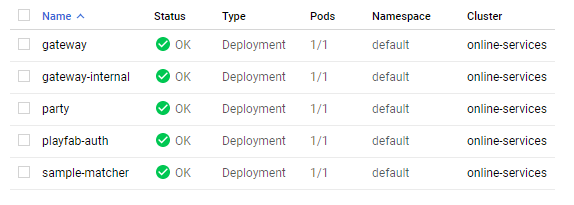
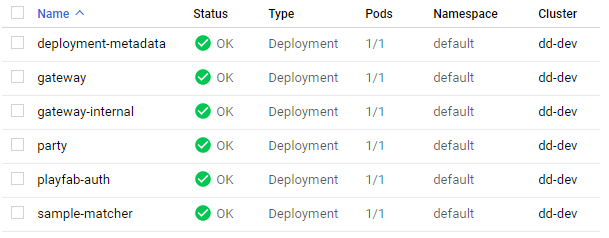
OS-675 Update quickstart docs (#57)
* Add deployment-metadata-related info to docs, update screenshots, spelling/grammar fixes

* Fix link in readme

* Add TODO for secret generation explanation

* Update local.md

Undo "used to" change

* Add in_use tag and description

* Change quickstart to push deployment metadata secret by string literal

* Update overview.md

Change in_use tag description

diff --git a/docs/content/get-started/quickstart-4.md b/docs/content/get-started/quickstart-4.md
@@ -10,7 +10,7 @@ This will give you a `gcloud` command you can paste into your shell and run. You
 
 #### Store your secrets
 
-We've got two secrets we need to store on Kubernetes - our SpatialOS service account token, and our PlayFab server token.
+We've got three secrets we need to store on Kubernetes - our SpatialOS service account token, our PlayFab server token, and a secret key for the Deployment Metadata service.
 
 > A "secret" is the k8s way of storing sensitive information such as passwords and API keys. It means the secret isn't stored in any configuration file or - even worse - your source control, but ensures your services will still have access to the information they need.
 
@@ -50,6 +50,13 @@ Once the service account is generated, we push it up to k8s, like so:
 kubectl create secret generic "spatialos-refresh-token" --from-file=./service-account.txt
 ```
 
+The last secret we need is a secret key for the Deployment Metadata service. Generate a secret key - any string will work - and then run the following command to push it to k8s, replacing the `{{your_metadata_secret_key}}` with the secret key you just generated:
+
+```bash
+kubectl create secret generic "deployment-metadata-secret" --from-literal="deployment-metadata-secret={{your_metadata_secret_key}}"
+```
+<!-- TODO: Consider linking to/explaining some best practices on the generation of some of these secrets - like the metadata service secret -->
+
 #### Deploy to Google Cloud Platform
 
 Now we need to edit the rest of the Kubernetes configuration files with variables that are specific to our deployment, such as our Google Project Name and the external IP addresses of our services.
@@ -66,6 +73,7 @@ This part's a little tedious, but you'll only need to do it once. Have a look th
 | `{{your_gateway_host}}` | The IP address of your Gateway service | `123.4.5.6` |
 | `{{your_party_host}}` | The IP address of your Party service | `123.7.8.9` |
 | `{{your_playfab_auth_host}}` | The IP address of your Playfab Auth service | `123.10.11.12` |
+| `{{assembly_name}}` | The name of the server assembly to run in Spatial OS deployments | `example_project_1031` |
 
 You can use `git grep "{{.*}}"` to help find which files need editing.
 

diff --git a/docs/content/configuration-examples/deployment-pool/overview.md b/docs/content/configuration-examples/deployment-pool/overview.md
@@ -7,7 +7,7 @@ To find out about terms used in this document and get an overview of SpatialOS t
 (**Note:** If you are using the SpatialOS GDK for Unreal, there is a guide tailored to how SpatialOS works with Unreal.)
 
 * [GDK for Unreal concepts guide](https://docs.improbable.io/unreal/latest/content/spatialos-concepts/introduction)
-* [SpatialOS concepts gude](https://docs.improbable.io/reference/latest/shared/concepts/spatialos)  - use this of you are using the GDK for Unity or any other game engine.
+* [SpatialOS concepts guide](https://docs.improbable.io/reference/latest/shared/concepts/spatialos)  - use this of you are using the GDK for Unity or any other game engine.
 
 ## What is the deployment pool?
 
@@ -34,8 +34,9 @@ The pool maintains its picture of deployment readiness using the Deployment Meta
 | Readiness  | Purpose |
 |-------------|---------|
 | `ready`     | A deployment can be used by players. |
-| `starting`  | A deployment has been started but has not yet completed all start up actions. |
-| `completed` | Added by the deployment itself to indicate it has finished running. For example, once a game session is over. |
+| `starting`  | A deployment has been started but has not yet completed all start-up actions. |
+| `in_use` | A deployment that has been marked by a Matcher as currently in-use by players. |
+| `completed` | Added by the deployment itself to indicate that it has finished running. For example, once a game session is over. |
 | `stopping`  | A deployment is in the process of being shut down. |
 
 *Note: these readiness annotations are subject to change in future versions*
@@ -53,7 +54,7 @@ The algorithm is as follows:
 ## Caveats
 
 * The deployment pool is intentionally very basic and will not fit every use case out-of-the-box.
-* Some deployments will require one full iteration to become `ready`. This can add up to 10 seconds to the start up time.
+* Some deployments will require one full iteration to become `ready`. This can add up to 10 seconds to the start-up time.
 * Spikes in player count will exhaust the Pool. As the Deployment Pool does not change the rate of deployment creation, the number of waiting players may keep increasing.
 
 <%(Nav hide="next")%>

diff --git a/docs/content/services-packages/services-intro.md b/docs/content/services-packages/services-intro.md
@@ -6,7 +6,7 @@ The [Online Services repository](http://github.com/spatialos/online-services) co
 * services & packages - see below.
 * configuration examples - see [overview]({{urlRoot}}/content/configuration-examples/examples-intro).
 
-Each Online Service is an executable which runs in the cloud and each Online Service package is a discrete set of functionality which offers you set up as part of a Online Service.
+Each Online Service is an executable which runs in the cloud and each Online Service package is a discrete set of functionality which you can set up as part of an Online Service.
 
 ## Services
 
@@ -68,7 +68,7 @@ A simple authentication server which validates a provided PlayFab ticket and ret
 
 ## Packages
 
-Discrete sets of functionality which you can set up as part of a Online Service.
+Discrete sets of functionality which you can set up as part of an Online Service.
 
 All packages are namespaced with `Improbable.OnlineServices.*`. You can find these on NuGet, but they're also included in this repository and imported as `ProjectReference`s in the example services.
 
@@ -83,7 +83,7 @@ This package doesn't include anything Improbable-specific; you can use it for an
 
 ### Base.Matcher
 
-A base class for implementing a Gateway [Matcher]({{urlRoot}}/content/services-packages/gateway/gateway.md#matchers).
+A base class for implementing a Gateway [Matcher]({{urlRoot}}/content/services-packages/gateway/gateway#matchers).
 
 - [Source](http://github.com/spatialos/online-services/tree/master/services/csharp/Base.Matcher/)
 - [`Base.Matcher` package on NuGet](https://www.nuget.org/packages/Improbable.OnlineServices.Base.Matcher)

diff --git a/docs/content/workflows/local.md b/docs/content/workflows/local.md
@@ -5,9 +5,9 @@ When you are developing your game in SpatialOS, you can run it locally, on your 
 
 ## Prerequisites
 
-You'll need to have completed the [Quickstart]({{urlRoot}}/content/get-started/quickstart.md) already - specifically the Terraform section. This is because the proxy we use to provide HTTP support still needs to talk to your Google Cloud Endpoints. You'll also be using the Docker images built in that guide.
+You'll need to have completed the [Quickstart]({{urlRoot}}/content/get-started/quickstart) already - specifically the Terraform section. This is because the proxy we use to provide HTTP support still needs to talk to your Google Cloud Endpoints. You'll also be using the Docker images built in that guide.
 
-If you're on Windows, there are some additional steps needed to mount Docker volumes. These steps are in a separate [Docker volumes on Windows]({{urlRoot}}/content/workflows/docker-windows-volumes.md) guide.
+If you're on Windows, there are some additional steps needed to mount Docker volumes. These steps are in a separate [Docker volumes on Windows]({{urlRoot}}/content/workflows/docker-windows-volumes) guide.
 
 ## Configuring
 
@@ -43,7 +43,7 @@ This runs local instances of each of the services, a local Redis instance and so
 You can verify the services are working correctly by using the `SampleClient` - just pass the `--local` flag when running it.
 
 ```bash
-# From /services/csharp/SampleMatcher
+# From /services/csharp/SampleClient
 dotnet run -- --google_project "[your Google project ID]" --playfab_title_id "[your PlayFab title ID]" --local
 ```
 

diff --git a/docs/content/get-started/quickstart-5.md b/docs/content/get-started/quickstart-5.md
@@ -32,7 +32,7 @@ There are two documents we recommend looking at next:
 
 **Deployment pool** - You may want to deploy a deployment pool manager if you're making a session-based game like an arena shooter - see the [deployment pool documentation]({{urlRoot}}/content/configuration-examples/deployment-pool/overview) for more information.
 
-**Local development** - The GDK for Unreal, the GDK for Unity and the Worker SDK have the option to run your game on your local development machine as if it were in the cloud - this is useful for faster development and testing iteration. You can do the same with Online Services. See the [local development]({{urlRoot}}/content/workflows/local.md) guide if you're planning to use local deployments to test Online Services.
+**Local development** - The GDK for Unreal, the GDK for Unity and the Worker SDK have the option to run your game on your local development machine as if it were in the cloud - this is useful for faster development and testing iteration. You can do the same with Online Services. See the [local development]({{urlRoot}}/content/workflows/local) guide if you're planning to use local deployments to test Online Services.
 
 
 <%(Nav hide="next")%>

diff --git a/README.md b/README.md
@@ -111,7 +111,7 @@ This package doesn't include anything Improbable-specific; you can use it for an
 
 #### Base.Matcher
 
-A base class for implementing a Gateway [Matcher](./docs/Gateway.md#Matchers).
+A base class for implementing a Gateway [Matcher](./docs/content/services-packages/gateway/gateway.md#Matchers).
 
 - [Source & documentation](./services/csharp/Base.Matcher/)
 - [`Base.Matcher` package on NuGet](https://www.nuget.org/packages/Improbable.OnlineServices.Base.Matcher)
@@ -132,7 +132,7 @@ A NuGet package of our compiled Protocol Buffers. Used to provide client or serv
 
 ## License
 
-This software is licensed under MIT. See the [LICENSE](./LICENSE.md) file for details.
+This software is licensed under MIT. See the [LICENSE](./LICENSE) file for details.
 
 ## Contributing
 

diff --git a/docs/content/services-packages/gateway/gateway.md b/docs/content/services-packages/gateway/gateway.md
@@ -1,7 +1,7 @@
 # Gateway
 <%(TOC)%>
 
-This is a technical overview of the Gateway: its features, design and implementation. It's not a usability guide; if you want to set up your own instances of these services follow the [Quickstart]({{urlRoot}}/content/get-started/quickstart.md).
+This is a technical overview of the Gateway: its features, design and implementation. It's not a usability guide; if you want to set up your own instances of these services follow the [Quickstart]({{urlRoot}}/content/get-started/quickstart).
 
 This guide describes the Gateway and any directly associated functionality; you can find other functionality in Online Services, such as a [Deployment Pool]({{urlRoot}}/content/configuration-examples/deployment-pool/overview) detailed separately.
 

diff --git a/docs/content/get-started/quickstart-1.md b/docs/content/get-started/quickstart-1.md
@@ -1,5 +1,7 @@
 # Quickstart: 1. Create a Google Cloud project
 
+> If you already have a Google Cloud project in which you can run Online Services, you can skip this step.
+
 Go to the [project creation page](https://console.cloud.google.com/projectcreate) on the Google Cloud console. Give your project a name - remember, it can't be changed later!
 
 There's a field to put in an organisation too. It's OK to leave this as `No organization` if you don't need this project to be part of one.

diff --git a/docs/toc.md b/docs/toc.md
@@ -26,5 +26,5 @@
     - [Database Sync Worker]({{urlRoot}}/content/integrations/database-sync-worker)
     - [C# Worker Template]({{urlRoot}}/content/integrations/csharp-worker-template)
 - <h3>Get involved</h3>
-    - [Contributions & feedback]({{urlRoot}}/content/contributions.md)
+    - [Contributions & feedback]({{urlRoot}}/content/contributions)
   
